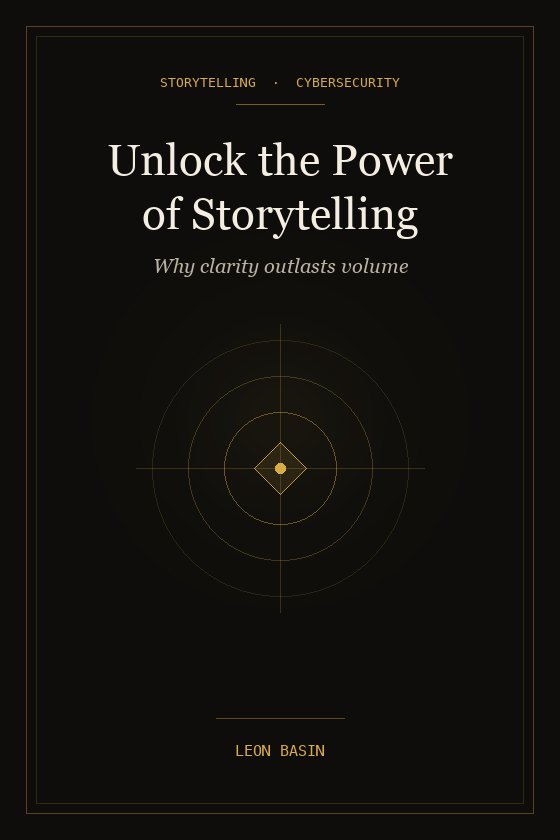
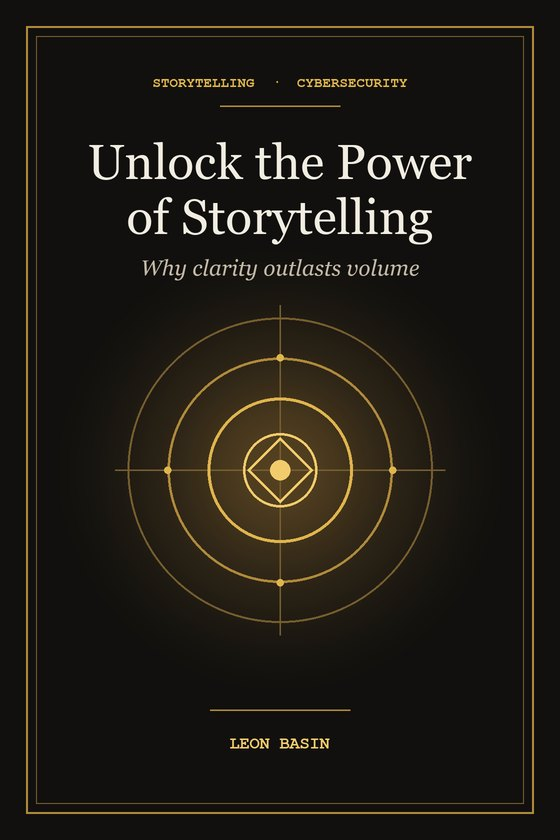
fix(ui): align contact form labels, frame nav CTA, boost book cover contrast, eager-load Plate I
- Style homepage Contact nav link as an outline CTA instead of an active-looking bottom underline
- Align homepage contact <select> visible labels 1:1 with the intent pills while keeping backend intent values intact
- Boost concentric gold ring weight and halo on unlock-storytelling-book-cover for crisp 92px card legibility
- Remove lazy-loading from Sam & Ink Visual Study Plate I to eliminate black-frame flash on first scroll

diff --git a/blog/fiction/sam-and-ink/index.html b/blog/fiction/sam-and-ink/index.html
@@ -50,7 +50,7 @@
           <a class="ledger-row" href="/blog/posts/sam-ink-starlight-map.html"><span class="number">04</span><strong>The Map Made of Starlight</strong><p>A fallen starfield draws a map across Palo Alto before sunrise.</p><span class="room">Night journey</span></a>
         </div></section>
 <section class="hub-daily" id="fragments" aria-labelledby="fragments-title"><p class="hub-label">The fragment shelf</p><h2 id="fragments-title">Small pieces. Open doors.</h2><button id="read-continuously" class="chapbook-trigger-btn" type="button" data-open-chapbook="fragment-17" hidden>Read continuously →</button><div class="hub-grid" data-fragment-order="newest" data-fragment-shelf data-card-tools="off"><article class="hub-entry"><span class="hub-label">Fragment 17 · 2026-11-17</span><h3><a href="/blog/posts/fragment-17.html">Never Neutral</a></h3><p>infrastructure is never neutral. it remembers the wound of its architect.</p></article><article class="hub-entry"><span class="hub-label">Fragment 16 · 2026-11-13</span><h3><a href="/blog/posts/fragment-16.html">When Nobody Needs</a></h3><p>I don’t know who I am when nobody needs anything from me.</p></article><article class="hub-entry"><span class="hub-label">Fragment 15 · 2026-11-10</span><h3><a href="/blog/posts/fragment-15.html">I Fed the Machine</a></h3><p>&quot;I fed the machine all quarter,&quot; he said. &quot;It got bigger. I got tired.&quot;</p></article><article class="hub-entry"><span class="hub-label">Fragment 14 · 2026-11-01</span><h3><a href="/blog/posts/fragment-14.html">Signal Survives Distortion</a></h3><p>now i think signal is the thing that survives distortion. the sentence after the ego burns off. the small truth that keeps knocking after everyone leaves the room.</p></article><article class="hub-entry"><span class="hub-label">Fragment 13 · 2026-10-29</span><h3><a href="/blog/posts/fragment-13.html">anyone can enter</a></h3><p>Some rooms only appear after you have been sitting in them for a while.</p></article><article class="hub-entry"><span class="hub-label">Fragment 12 · 2026-10-23</span><h3><a href="/blog/posts/fragment-12.html">five rooms</a></h3><p>Proof that there was a house underneath all of this.</p></article><article class="hub-entry"><span class="hub-label">Fragment 11 · 2026-10-18</span><h3><a href="/blog/posts/fragment-11.html">the mirror</a></h3><p>I can see what you built. I asked what you kept.</p></article><article class="hub-entry"><span class="hub-label">Fragment 10 · 2026-10-14</span><h3><a href="/blog/posts/fragment-10.html">the pause</a></h3><p>&quot;Should I save it?&quot;</p></article><article class="hub-entry"><span class="hub-label">Fragment 9 · 2026-10-12</span><h3><a href="/blog/posts/fragment-09.html">the interruption</a></h3><p>&quot;You&#x27;re writing differently,&quot; Ink tells him one evening.</p></article><article class="hub-entry"><span class="hub-label">Fragment 8 · 2026-10-10</span><h3><a href="/blog/posts/fragment-08.html">the room</a></h3><p>Sam has tried. That is what the archive was for.</p></article><article class="hub-entry"><span class="hub-label">Fragment 7 · 2026-10-10</span><h3><a href="/blog/posts/fragment-07.html">the window</a></h3><p>Outside the window, Silicon Valley continues doing what Silicon Valley does.</p></article><article class="hub-entry"><span class="hub-label">Fragment 6 · 2026-10-10</span><h3><a href="/blog/posts/fragment-06.html">cleaner</a></h3><p>There is a page on the table. It has been wet before.</p></article></div></section>
-<section class="visual-study" id="visual-study" aria-labelledby="visual-study-title"><p class="hub-label">Visual study · Original ink-and-gold plates</p><h2 id="visual-study-title">Sam &amp; Ink in the studio</h2><div class="visual-study-grid"><figure class="study-plate study-plate--lead"><picture><source srcset="/assets/img/fiction/ink-at-the-desk-720.webp 720w, /assets/img/fiction/ink-at-the-desk.webp 1280w" sizes="(max-width:767px) calc(100vw - 32px), 1120px" type="image/webp"><img src="/assets/img/fiction/ink-at-the-desk.jpg" alt="Ink, an ink-and-gold lion, sits across a writing table of open sketched notebooks facing an empty wooden chair" width="1280" height="853" loading="lazy" decoding="async"></picture><figcaption><span>Plate I</span> Ink at the writing table, with the chair across from him left open.</figcaption></figure><figure class="study-plate"><picture><source srcset="/assets/img/fiction/sam-character-plate.webp" type="image/webp"><img src="/assets/img/fiction/sam-character-plate.jpg" alt="Sam character turnaround and expression studies rendered in obsidian ink and gold flecks, holding a notebook" width="1400" height="700" loading="lazy" decoding="async"></picture><figcaption><span>Plate II</span> Sam — study sheet, notebook in hand.</figcaption></figure><figure class="study-plate"><picture><source srcset="/assets/img/fiction/ink-character-plate.webp" type="image/webp"><img src="/assets/img/fiction/ink-character-plate.jpg" alt="Ink character turnaround and expression studies showing an ink-and-gold lion woven with subtle circuit filigree and emerald eyes" width="1400" height="933" loading="lazy" decoding="async"></picture><figcaption><span>Plate III</span> Ink — study sheet, gold filigree and emerald light.</figcaption></figure></div></section>
+<section class="visual-study" id="visual-study" aria-labelledby="visual-study-title"><p class="hub-label">Visual study · Original ink-and-gold plates</p><h2 id="visual-study-title">Sam &amp; Ink in the studio</h2><div class="visual-study-grid"><figure class="study-plate study-plate--lead"><picture><source srcset="/assets/img/fiction/ink-at-the-desk-720.webp 720w, /assets/img/fiction/ink-at-the-desk.webp 1280w" sizes="(max-width:767px) calc(100vw - 32px), 1120px" type="image/webp"><img src="/assets/img/fiction/ink-at-the-desk.jpg" alt="Ink, an ink-and-gold lion, sits across a writing table of open sketched notebooks facing an empty wooden chair" width="1280" height="853" decoding="async"></picture><figcaption><span>Plate I</span> Ink at the writing table, with the chair across from him left open.</figcaption></figure><figure class="study-plate"><picture><source srcset="/assets/img/fiction/sam-character-plate.webp" type="image/webp"><img src="/assets/img/fiction/sam-character-plate.jpg" alt="Sam character turnaround and expression studies rendered in obsidian ink and gold flecks, holding a notebook" width="1400" height="700" loading="lazy" decoding="async"></picture><figcaption><span>Plate II</span> Sam — study sheet, notebook in hand.</figcaption></figure><figure class="study-plate"><picture><source srcset="/assets/img/fiction/ink-character-plate.webp" type="image/webp"><img src="/assets/img/fiction/ink-character-plate.jpg" alt="Ink character turnaround and expression studies showing an ink-and-gold lion woven with subtle circuit filigree and emerald eyes" width="1400" height="933" loading="lazy" decoding="async"></picture><figcaption><span>Plate III</span> Ink — study sheet, gold filigree and emerald light.</figcaption></figure></div></section>
 <section class="room-book"><div class="room-book-card"><picture class="room-book-cover"><source srcset="/assets/img/fiction/sam-and-ink-book-cover.webp" type="image/webp"><img src="/assets/img/fiction/sam-and-ink-book-cover.jpg" alt="Sam and Ink book cover with gold-ink lion emblem on dark linen" width="498" height="747" loading="lazy" decoding="async"></picture><div class="room-book-copy"><p class="hub-label">The longer conversation</p><h2>What Are We?</h2><p>A story about being witnessed without being assessed.</p><a class="text-link" href="https://www.amazon.com/dp/B0CB9PWL5X" target="_blank" rel="noopener noreferrer">The Sam &amp; Ink novella ↗</a></div></div></section><section class="dispatch-section"><h2>The next room</h2><p>New stories and fragments, when they are ready.</p><a href="https://basinandassociates.substack.com/subscribe" target="_blank" rel="noopener noreferrer">Receive new writing →</a><a href="/blog/">Writing Library</a></section></main><dialog id="continuous-room" class="chapbook-dialog" closedby="any" aria-labelledby="chapbook-label">
     <div class="chapbook-shell">
       <div class="chapbook-top">

diff --git a/index.html b/index.html
@@ -141,7 +141,7 @@
     <link href="https://fonts.googleapis.com/css2?family=Instrument+Serif:ital@0;1&amp;family=Manrope:wght@400;500;600;700;800&amp;family=JetBrains+Mono:wght@400;500&amp;display=swap" rel="stylesheet">
     <link rel="stylesheet" href="/assets/css/continuity.css?v=20261120-editorial">
     <link rel="stylesheet" href="/assets/css/contact-form.css?v=20261121-muse">
-    <link rel="stylesheet" href="/assets/css/executive-profile.css?v=20261121-muse">
+    <link rel="stylesheet" href="/assets/css/executive-profile.css?v=20261121-muse2">
     <link rel="stylesheet" href="/assets/css/site-chrome.css?v=20261120-editorial">
 </head>
 <body data-lb-section="home" data-lb-funnel-step="homepage">
@@ -253,7 +253,7 @@
                                 <div class="lb-contact-form__field"><label for="home-contact-name">Name</label><input id="home-contact-name" name="name" autocomplete="name" required></div>
                                 <div class="lb-contact-form__field"><label for="home-contact-email">Email</label><input id="home-contact-email" name="email" type="email" autocomplete="email" required></div>
                                 <div class="lb-contact-form__field"><label for="home-contact-company">Company</label><input id="home-contact-company" name="company" autocomplete="organization"></div>
-                                <div class="lb-contact-form__field"><label for="home-contact-intent">Conversation</label><select id="home-contact-intent" name="intent"><option value="Revenue Working Session ($500)">Revenue Working Session ($500)</option><option value="Senior operating role" selected>Senior operating role</option><option value="Revenue Motion Diagnostic Sprint ($1,250)">$1,250 Diagnostic</option><option value="GTM Implementation Sprint ($3,500)">$3,500 Implementation</option><option value="Speaking or writing">Speaking or writing</option><option value="Introduction or relationship">Introduction or relationship</option></select></div>
+                                <div class="lb-contact-form__field"><label for="home-contact-intent">Conversation</label><select id="home-contact-intent" name="intent"><option value="Senior operating role" selected>Founding GTM Role</option><option value="Revenue Working Session ($500)">$500 Working Session</option><option value="Revenue Motion Diagnostic Sprint ($1,250)">$1,250 Diagnostic</option><option value="GTM Implementation Sprint ($3,500)">$3,500 Implementation</option><option value="Speaking or writing">Speaking or writing</option><option value="Introduction or relationship">Introduction or relationship</option></select></div>
                                 <div class="lb-contact-form__field lb-contact-form__field--wide"><label for="home-contact-problem">What would you like to discuss?</label><textarea id="home-contact-problem" name="problem" minlength="12" required></textarea></div>
                                 <div class="lb-contact-form__trap" aria-hidden="true"><label for="home-contact-website">Website</label><input id="home-contact-website" name="website" tabindex="-1" autocomplete="off"></div>
                             </div>

diff --git a/assets/css/executive-profile.css b/assets/css/executive-profile.css
@@ -40,7 +40,8 @@ h1,h2,h3,p,figure{margin:0}
 .nav-links{display:flex;gap:24px;align-items:center}
 .nav-links a{display:inline-flex;align-items:center;min-height:44px;font-size:13.5px;font-weight:500;text-decoration:none;color:var(--muted);transition:color 160ms var(--ease)}
 .nav-links a:hover,.nav-links a:focus-visible{color:var(--ink)}
-.nav-contact{color:var(--ink)!important;border-bottom:1px solid var(--accent)}
+.nav-contact{color:var(--ink)!important;padding:0 14px;border:1px solid var(--rule);transition:border-color 160ms var(--ease),color 160ms var(--ease),background-color 160ms var(--ease)}
+.nav-contact:hover,.nav-contact:focus-visible{border-color:var(--accent);color:var(--accent)!important;background:var(--card)}
 .nav-controls{display:flex;align-items:center;gap:8px}
 .theme-toggle{display:inline-flex;align-items:center;justify-content:center;width:44px;height:44px;padding:0;border:1px solid var(--rule);background:transparent;color:var(--muted);cursor:pointer;transition:border-color 160ms var(--ease),color 160ms var(--ease),background-color 160ms var(--ease)}
 .theme-toggle:hover,.theme-toggle:focus-visible{border-color:var(--accent);color:var(--accent);background:var(--card)}
@@ -204,7 +205,7 @@ h2{font-family:var(--serif);font-size:clamp(2rem,3.8vw,3rem);letter-spacing:-.01
   .nav-links{display:none;position:absolute;top:100%;left:0;right:0;min-height:calc(100dvh - 68px);padding:14px var(--gutter) max(22px,env(safe-area-inset-bottom));background:var(--paper);border-bottom:1px solid var(--rule);max-height:calc(100dvh - 68px);overflow-y:auto;gap:0}
   .menu-open .nav-links{display:flex;flex-direction:column;align-items:stretch}
   .nav-links a{padding-block:10px;min-height:48px;font-size:16px;color:var(--ink)}
-  .nav-contact{border-bottom:0}
+  .nav-contact{padding:10px 0;border:0}
   .profile{grid-template-columns:minmax(0,1fr) 196px;gap:24px;padding-block:36px}
   .career-entry{grid-template-columns:100px 1fr;gap:8px 18px}
   .career-scope{grid-column:2}
